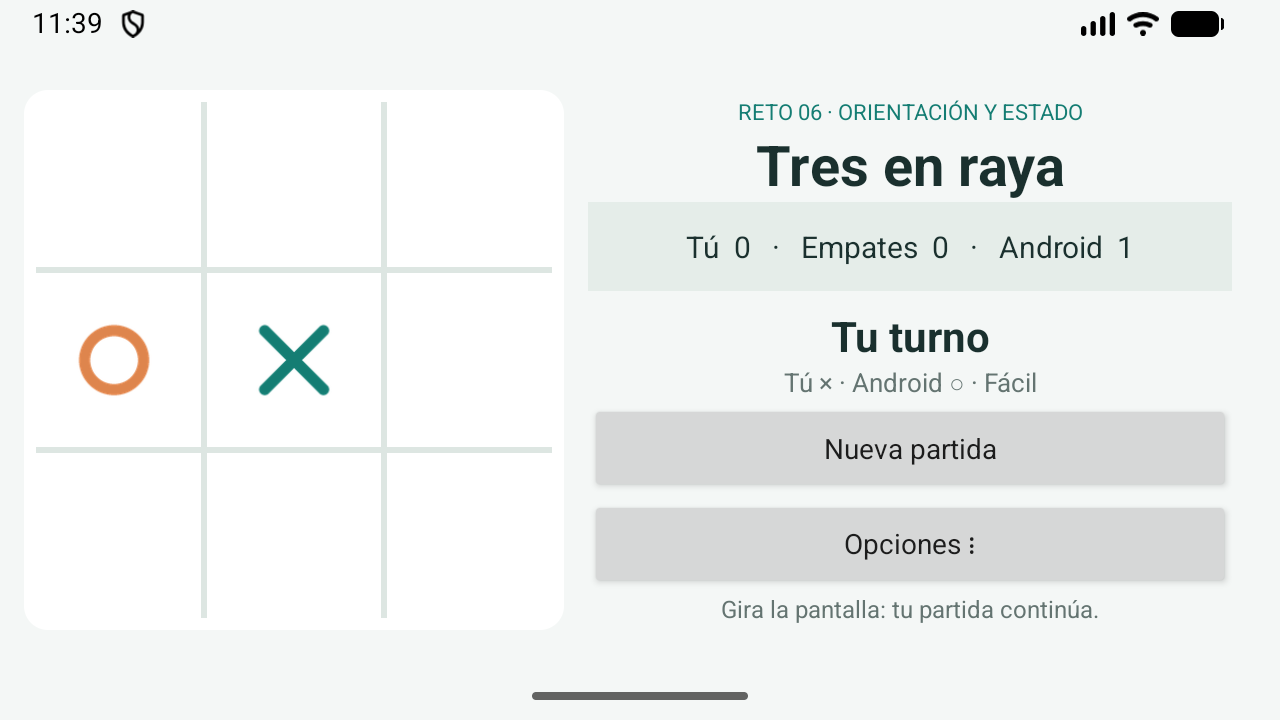
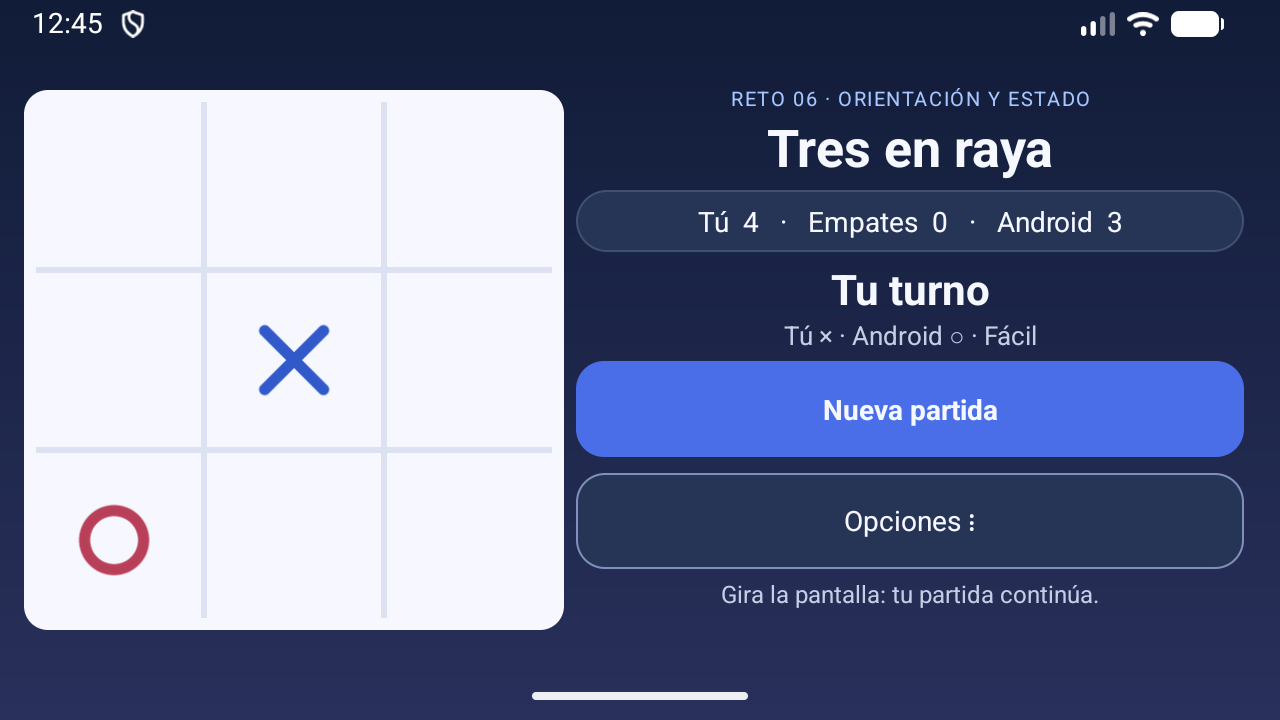
feat: nueva paleta de colores y evidencias de ambas orientaciones

diff --git a/app/src/main/java/com/hernandovela/reto6/BoardView.java b/app/src/main/java/com/hernandovela/reto6/BoardView.java
@@ -11,6 +11,7 @@ public final class BoardView extends View {
     public static final int GRID_WIDTH = 6;
     private Bitmap mHumanBitmap, mComputerBitmap;
     private Paint mPaint;
+    private ColorFilter xTint, oTint;
     private TicTacToeGame mGame;
     private MoveListener listener;
     private int downCell = -1;
@@ -22,6 +23,8 @@ public final class BoardView extends View {
         mHumanBitmap = BitmapFactory.decodeResource(getResources(), R.drawable.x_img);
         mComputerBitmap = BitmapFactory.decodeResource(getResources(), R.drawable.o_img);
         mPaint = new Paint(Paint.ANTI_ALIAS_FLAG | Paint.FILTER_BITMAP_FLAG);
+        xTint=new PorterDuffColorFilter(getResources().getColor(R.color.x_color,null),PorterDuff.Mode.SRC_IN);
+        oTint=new PorterDuffColorFilter(getResources().getColor(R.color.o_color,null),PorterDuff.Mode.SRC_IN);
         setClickable(true);
         setContentDescription("Tablero de tres en raya, tres filas y tres columnas");
     }
@@ -38,14 +41,15 @@ public final class BoardView extends View {
         super.onDraw(canvas);
         float cw = getWidth()/3f, ch = getHeight()/3f;
         mPaint.setStyle(Paint.Style.FILL);
-        mPaint.setColor(Color.WHITE);
+        mPaint.setColorFilter(null);
+        mPaint.setColor(getResources().getColor(R.color.board_surface,null));
         canvas.drawRoundRect(0,0,getWidth(),getHeight(),24,24,mPaint);
         int[] line = mGame == null ? null : mGame.winningLine();
         if (line != null) {
-            mPaint.setColor(Color.rgb(220,242,232));
+            mPaint.setColor(getResources().getColor(mGame.getBoardOccupant(line[0])=='X' ? R.color.x_win : R.color.o_win,null));
             for (int i : line) canvas.drawRoundRect(i%3*cw+7,i/3*ch+7,(i%3+1)*cw-7,(i/3+1)*ch-7,18,18,mPaint);
         }
-        mPaint.setColor(Color.rgb(221,230,226));
+        mPaint.setColor(getResources().getColor(R.color.board_grid,null));
         mPaint.setStrokeWidth(GRID_WIDTH * getResources().getDisplayMetrics().density / 2);
         for (int i=1;i<3;i++) {
             canvas.drawLine(i*cw,12,i*cw,getHeight()-12,mPaint);
@@ -57,6 +61,7 @@ public final class BoardView extends View {
             char c = mGame.getBoardOccupant(i);
             if (c == TicTacToeGame.EMPTY) continue;
             RectF destination = new RectF(i%3*cw+inset,i/3*ch+inset,(i%3+1)*cw-inset,(i/3+1)*ch-inset);
+            mPaint.setColorFilter(c == 'X' ? xTint : oTint);
             canvas.drawBitmap(c == 'X' ? mHumanBitmap : mComputerBitmap,null,destination,mPaint);
         }
     }

diff --git a/app/src/main/java/com/hernandovela/reto6/MainActivity.java b/app/src/main/java/com/hernandovela/reto6/MainActivity.java
@@ -100,6 +100,7 @@ public final class MainActivity extends Activity {
     }
     private void render() {
         int result=game.result(); displayScores();
+        status.setTextColor(getResources().getColor(result==TicTacToeGame.HUMAN_WINS ? R.color.x_label : result==TicTacToeGame.COMPUTER_WINS ? R.color.o_label : R.color.text_primary,null));
         if(result==TicTacToeGame.HUMAN_WINS) status.setText("¡Ganaste!");
         else if(result==TicTacToeGame.COMPUTER_WINS) status.setText("Android gana");
         else if(result==TicTacToeGame.DRAW) status.setText("¡Empate!");

diff --git a/docs/VALIDACION.md b/docs/VALIDACION.md
@@ -32,3 +32,22 @@ La ejecución en API 24–36 no se probó en dispositivos separados.
 - La rotación automática del emulador queda activada; no cambia la opción Sonido.
 - Compilación, 8 pruebas unitarias y Lint completados correctamente.
 - Ejecutar la prueba de audio: instalar el APK de `assembleDebugAndroidTest` y ejecutar `adb shell am instrument -w com.hernandovela.reto6.test/com.hernandovela.reto6.OutcomeSoundInstrumentation`.
+
+
+## Mejora de experiencia visual
+
+Paleta aplicada el 3 de octubre de 2026:
+
+| Elemento | Color |
+| --- | --- |
+| X del jugador | Azul `#3159C9` |
+| O de Android | Frambuesa `#B83F58` |
+| Fondo | Degradado `#111C38` → `#29305B` |
+| Tablero | Claro `#F7F8FF` |
+| Acción Nueva partida | Azul `#496EE8` |
+
+La leyenda identifica a cada jugador con su color; la línea ganadora y el texto del resultado usan el color correspondiente. Las formas X/O y los mensajes permiten distinguir el resultado sin depender únicamente del color.
+
+Las capturas vertical y horizontal anteriores se reemplazaron por capturas reales de la nueva interfaz con la misma partida: una X, una O y el mismo marcador. Se verificaron botones completos de 48 dp en vertical y conservación del tablero, turno, marcador y dificultad al girar en ambos sentidos. La rotación automática queda activada al terminar.
+
+Validación final: compilación y Lint sin errores, 8 pruebas unitarias aprobadas y 6 comprobaciones instrumentales de audio aprobadas. Ver [comprobaciones del diseño](VALIDACION-DISENO.json).

diff --git a/README.md b/README.md
@@ -5,7 +5,8 @@ Proyecto Android Studio independiente, Java y vistas XML. Paquete `com.hernandov
 ## Funcionalidad
 - Tres en raya contra Android, tablero Canvas con imágenes y sonidos.
 - Sonido de victoria al ganar y sonido diferente de derrota cuando gana Android. Respetan la opción Sonido; al girar, el audio en curso continúa sin reiniciarse.
-- Vertical: tablero y controles en columna. Horizontal: tablero de 270 dp a la izquierda y controles desplazables a la derecha, sin barra de título.
+- Diseño visual: X azul, O frambuesa, tablero claro y fondo azul oscuro con degradado. Botón principal destacado y resultado con el color del ganador.
+- Vertical: tablero de 250 dp y controles en columna. Horizontal: tablero de 270 dp a la izquierda y controles desplazables a la derecha, sin barra de título.
 - `onSaveInstanceState` conserva tablero (copia de char[]), fin de partida, mensaje, primer jugador y turno actual. Android recrea la Activity normalmente: no se bloquea orientación ni se usa configChanges.
 - `SharedPreferences` (`ttt_prefs`) conserva victorias, empates, dificultad (ordinal del enum) y sonido. Se escribe al cambiar y en onStop.
 - Opciones con icono para reiniciar marcadores; sin opción Salir.
